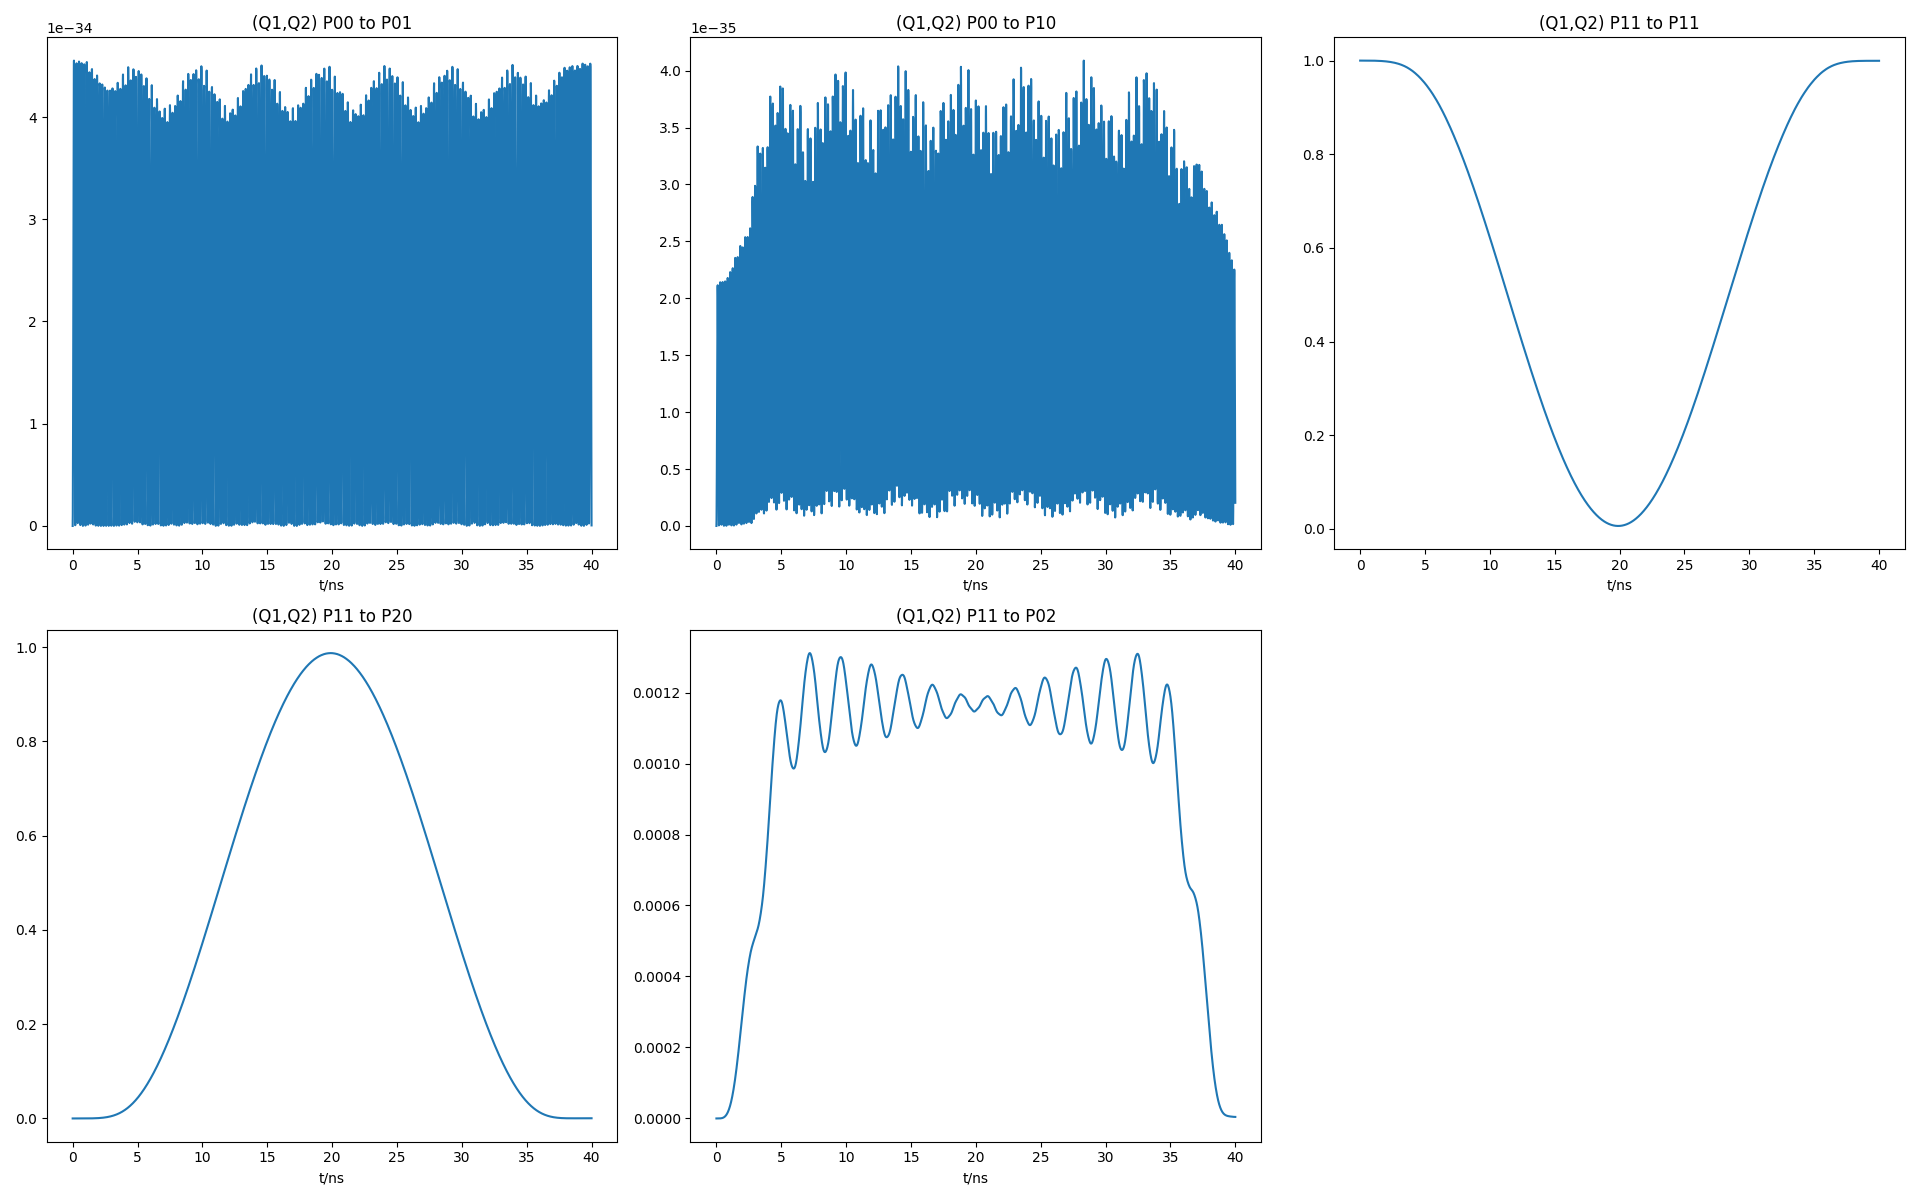
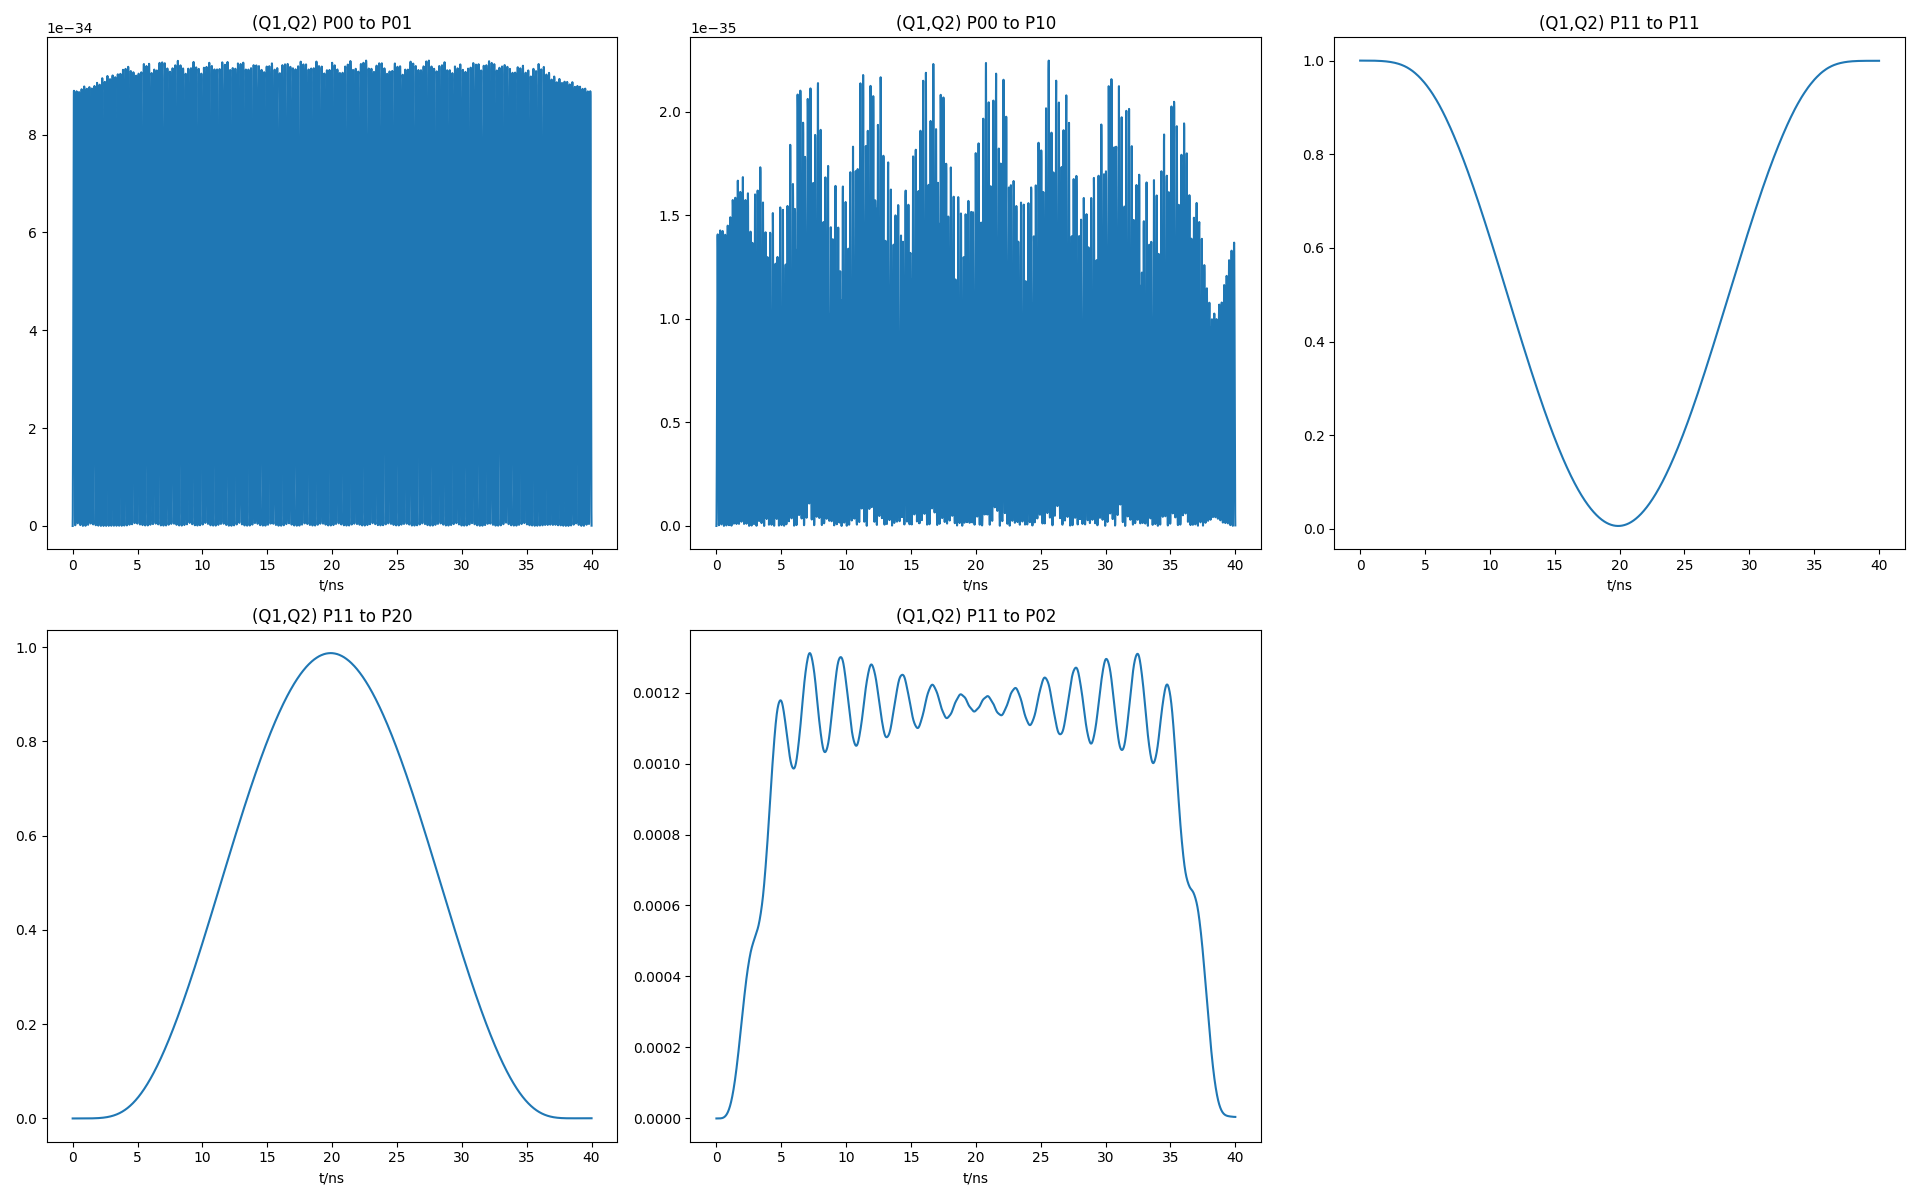
1.0

Changed region(s): [[0.375, 0.0617, 0.6562, 0.2775], [0.0312, 0.0308, 0.3125, 0.0925], [0.375, 0.4008, 0.625, 0.4625]]

diff --git a/example/X2PQ1_X2PQ2/X2PQ1_X2PQ2.py b/example/X2PQ1_X2PQ2/X2PQ1_X2PQ2.py
@@ -1,5 +1,6 @@
 import numpy as np
 import QubitSim.model
+from matplotlib import pyplot as plt
 
 # 0.Build a quantum circuit.
 circuit = QubitSim.model.Circuit()
@@ -84,8 +85,73 @@ Amplitude1 = 0.00365
 Amplitude2 = 0.00380
 f01_Q1 = 4.7035E9
 f01_Q2 = 4.5299E9
+phi_Q1 = np.pi-0.3356
+phi_Q2 = np.pi-0.3356
 Envolope = 1-np.cos(2*np.pi*circuit.t_list/(circuit.t_end-circuit.t_start))
-circuit.signal_1 = Amplitude1*Envolope*np.cos(2*np.pi*f01_Q1*circuit.t_list)
-circuit.signal_2 = Amplitude2*Envolope*np.cos(2*np.pi*f01_Q2*circuit.t_list)
+circuit.signal_1 = Amplitude1*Envolope*np.cos(2*np.pi*f01_Q1*circuit.t_list+phi_Q1)
+circuit.signal_2 = Amplitude2*Envolope*np.cos(2*np.pi*f01_Q2*circuit.t_list+phi_Q2)
+plt.figure()
+ax = plt.subplot(1, 2, 1)
+ax.plot(circuit.t_list*1E9, circuit.signal_1)
+ax.set_title("signal_1")
+ax.set_xlabel("t/ns")
+ax = plt.subplot(1, 2, 2)
+ax.plot(circuit.t_list*1E9, circuit.signal_2)
+ax.set_title("signal_2")
+ax.set_xlabel("t/ns")
+plt.tight_layout()
+plt.savefig(fname="X2PQ1_X2PQ2_signal.png")
 # 3.Run.
 circuit.run()
+# 4.Matrix display
+X2PQ1_X2PQ2_matrix = np.load(circuit.npy_filename)
+print("X2PQ1_X2PQ2_matrix:")
+for i in range(4):
+    for j in range(4):
+        print("%.4f" % np.abs(X2PQ1_X2PQ2_matrix[i][j]), end='_')
+        print("%.4f" % np.angle(X2PQ1_X2PQ2_matrix[i][j]), end=',')
+    print()
+
+X2PQ1_matrix = np.zeros([2, 2], dtype=complex)
+X2PQ1_matrix[0][0] = X2PQ1_X2PQ2_matrix[0][0]/np.sqrt(0.5)
+X2PQ1_matrix[0][1] = X2PQ1_X2PQ2_matrix[0][2]/np.sqrt(0.5)
+X2PQ1_matrix[1][0] = X2PQ1_X2PQ2_matrix[2][0]/np.sqrt(0.5)
+X2PQ1_matrix[1][1] = X2PQ1_X2PQ2_matrix[2][2]/np.sqrt(0.5)
+print("\nX2PQ1_matrix:")
+print(X2PQ1_matrix)
+
+theta_g_Q1 = (np.angle(X2PQ1_matrix[0][0])+np.angle(X2PQ1_matrix[1][1]))/2.0
+phi_Q1 = 2*np.arccos(np.real(X2PQ1_matrix[0][0]/np.exp(complex(0, 1)*theta_g_Q1)))
+nx_Q1 = np.imag(X2PQ1_matrix[0][1] /
+             np.exp(complex(0, 1)*theta_g_Q1))/(-1)/np.sin(phi_Q1/2)
+ny_Q1 = np.real(X2PQ1_matrix[0][1] /
+             np.exp(complex(0, 1)*theta_g_Q1))/(-1)/np.sin(phi_Q1/2)
+nz_Q1 = np.imag(X2PQ1_matrix[0][0] /
+             np.exp(complex(0, 1)*theta_g_Q1))/(-1)/np.sin(phi_Q1/2)
+print("theta_g_Q1=%.4f" % theta_g_Q1)
+print("phi_Q1=%.4f" % phi_Q1)
+print("nx_Q1=%.4f" % nx_Q1)
+print("ny_Q1=%.4f" % ny_Q1)
+print("nz_Q1=%.4f" % nz_Q1)
+
+X2PQ2_matrix = np.zeros([2, 2], dtype=complex)
+X2PQ2_matrix[0][0] = X2PQ1_X2PQ2_matrix[0][0]/np.sqrt(0.5)
+X2PQ2_matrix[0][1] = X2PQ1_X2PQ2_matrix[0][1]/np.sqrt(0.5)
+X2PQ2_matrix[1][0] = X2PQ1_X2PQ2_matrix[1][0]/np.sqrt(0.5)
+X2PQ2_matrix[1][1] = X2PQ1_X2PQ2_matrix[1][1]/np.sqrt(0.5)
+print("\nX2PQ2_matrix:")
+print(X2PQ2_matrix)
+
+theta_g_Q2 = (np.angle(X2PQ2_matrix[0][0])+np.angle(X2PQ2_matrix[1][1]))/2.0
+phi_Q2 = 2*np.arccos(np.real(X2PQ2_matrix[0][0]/np.exp(complex(0, 1)*theta_g_Q2)))
+nx_Q2 = np.imag(X2PQ2_matrix[0][1] /
+             np.exp(complex(0, 1)*theta_g_Q2))/(-1)/np.sin(phi_Q2/2)
+ny_Q2 = np.real(X2PQ2_matrix[0][1] /
+             np.exp(complex(0, 1)*theta_g_Q2))/(-1)/np.sin(phi_Q2/2)
+nz_Q2 = np.imag(X2PQ2_matrix[0][0] /
+             np.exp(complex(0, 1)*theta_g_Q2))/(-1)/np.sin(phi_Q2/2)
+print("theta_g_Q2=%.4f" % theta_g_Q2)
+print("phi_Q2=%.4f" % phi_Q2)
+print("nx_Q2=%.4f" % nx_Q2)
+print("ny_Q2=%.4f" % ny_Q2)
+print("nz_Q2=%.4f" % nz_Q2)

diff --git a/example/DCCZ/DCCZ.py b/example/DCCZ/DCCZ.py
@@ -104,19 +104,39 @@ circuit.signal_1z = flat_top(circuit.t_list*1E9, amplitude_Q1, 1, 2)
 circuit.signal_2z = flat_top(circuit.t_list*1E9, amplitude_Q2, 1, 2)
 circuit.signal_3z = flat_top(circuit.t_list*1E9, amplitude_C, 1, 2)
 plt.figure()
-plt.subplot(2, 2, 1)
-plt.plot(circuit.t_list*1E9, circuit.signal_1z)
-plt.subplot(2, 2, 2)
-plt.plot(circuit.t_list*1E9, circuit.signal_2z)
-plt.subplot(2, 2, 3)
-plt.plot(circuit.t_list*1E9, circuit.signal_3z)
-plt.show()
+ax = plt.subplot(2, 2, 1)
+ax.plot(circuit.t_list*1E9, circuit.signal_1z)
+ax.set_title("signal_1z")
+ax.set_xlabel("t/ns")
+ax = plt.subplot(2, 2, 2)
+ax.plot(circuit.t_list*1E9, circuit.signal_2z)
+ax.set_title("signal_2z")
+ax.set_xlabel("t/ns")
+ax = plt.subplot(2, 2, 3)
+ax.plot(circuit.t_list*1E9, circuit.signal_3z)
+ax.set_title("signal_3z")
+ax.set_xlabel("t/ns")
+plt.tight_layout()
+plt.savefig(fname="DCCZ_signal.png")
 # 3.Run.
 circuit.run()
 # 4.data process
-phase_globle = np.angle(circuit.time_evolution_operator_dressed_sub[0][0])
-phase1 = np.angle(circuit.time_evolution_operator_dressed_sub[1][1])
-phase2 = np.angle(circuit.time_evolution_operator_dressed_sub[2][2])
+DCCZ_matrix = np.load(circuit.npy_filename)
+print("DCCZ_matrix:")
+for i in range(4):
+    for j in range(4):
+        print("%.4f" % np.abs(DCCZ_matrix[i][j]), end='_')
+        print("%.4f" % np.angle(DCCZ_matrix[i][j]), end=',')
+    print()
+phase_globle = np.angle(DCCZ_matrix[0][0])
+phase1 = np.angle(DCCZ_matrix[1][1])
+phase2 = np.angle(DCCZ_matrix[2][2])
 phase_U = np.diag([np.exp(-complex(0, 1)*phase_globle), np.exp(-complex(0, 1)*phase1),
                   np.exp(-complex(0, 1)*phase2), np.exp(-complex(0, 1)*(phase1+phase2-phase_globle))])
-print(np.matmul(phase_U,circuit.time_evolution_operator_dressed_sub))
+DCCZ_matrix_free_phase=np.matmul(phase_U,DCCZ_matrix)
+print("\nDCCZ_matrix(phase free):")
+for i in range(4):
+    for j in range(4):
+        print("%.4f" % np.abs(DCCZ_matrix_free_phase[i][j]), end='_')
+        print("%.4f" % np.angle(DCCZ_matrix_free_phase[i][j]), end=',')
+    print()

diff --git a/example/ACCZ/ACCZ.py b/example/ACCZ/ACCZ.py
@@ -115,14 +115,30 @@ envolope = envolope/amp_norm
 waveform_ts = waveform_ts/amp_norm
 circuit.signal_3z = waveform_ts
 plt.figure()
-plt.plot(circuit.signal_3z)
-plt.show()
+plt.plot(circuit.t_list*1E9, circuit.signal_3)
+plt.title("signal_3")
+plt.xlabel("t/ns")
+plt.tight_layout()
+plt.savefig(fname="ACCZ_signal.png")
 # 3.Run.
 circuit.run()
 # 4.data process
-phase_globle = np.angle(circuit.time_evolution_operator_dressed_sub[0][0])
-phase1 = np.angle(circuit.time_evolution_operator_dressed_sub[1][1])
-phase2 = np.angle(circuit.time_evolution_operator_dressed_sub[2][2])
+ACCZ_matrix = np.load(circuit.npy_filename)
+print("ACCZ_matrix:")
+for i in range(4):
+    for j in range(4):
+        print("%.4f" % np.abs(ACCZ_matrix[i][j]), end='_')
+        print("%.4f" % np.angle(ACCZ_matrix[i][j]), end=',')
+    print()
+phase_globle = np.angle(ACCZ_matrix[0][0])
+phase1 = np.angle(ACCZ_matrix[1][1])
+phase2 = np.angle(ACCZ_matrix[2][2])
 phase_U = np.diag([np.exp(-complex(0, 1)*phase_globle), np.exp(-complex(0, 1)*phase1),
                   np.exp(-complex(0, 1)*phase2), np.exp(-complex(0, 1)*(phase1+phase2-phase_globle))])
-print(np.matmul(phase_U,circuit.time_evolution_operator_dressed_sub))
+ACCZ_matrix_free_phase=np.matmul(phase_U,ACCZ_matrix)
+print("\nACCZ_matrix(phase free):")
+for i in range(4):
+    for j in range(4):
+        print("%.4f" % np.abs(ACCZ_matrix_free_phase[i][j]), end='_')
+        print("%.4f" % np.angle(ACCZ_matrix_free_phase[i][j]), end=',')
+    print()

diff --git a/example/X2PQ1_idleQ2/X2PQ1_idleQ2.py b/example/X2PQ1_idleQ2/X2PQ1_idleQ2.py
@@ -104,7 +104,7 @@ plt.savefig(fname="X2PQ1_idleQ2_signal.png")
 circuit.run()
 # 4.Matrix display
 X2PQ1_idleQ2_matrix = np.load(circuit.npy_filename)
-print("\nX2PQ1_idleQ2_matrix:")
+print("X2PQ1_idleQ2_matrix:")
 for i in range(4):
     for j in range(4):
         print("%.4f" % np.abs(X2PQ1_idleQ2_matrix[i][j]), end='_')
@@ -127,7 +127,7 @@ ny = np.real(X2PQ1_matrix[0][1] /
              np.exp(complex(0, 1)*theta_g))/(-1)/np.sin(phi/2)
 nz = np.imag(X2PQ1_matrix[0][0] /
              np.exp(complex(0, 1)*theta_g))/(-1)/np.sin(phi/2)
-print("\ntheta_g=%.4f" % theta_g)
+print("theta_g=%.4f" % theta_g)
 print("phi=%.4f" % phi)
 print("nx=%.4f" % nx)
 print("ny=%.4f" % ny)

diff --git a/example/Y2PQ1_idleQ2/Y2PQ1_idleQ2.py b/example/Y2PQ1_idleQ2/Y2PQ1_idleQ2.py
@@ -104,7 +104,7 @@ plt.savefig(fname="Y2PQ1_idleQ2_signal.png")
 circuit.run()
 # 4.Matrix display
 Y2PQ1_idleQ2_matrix = np.load(circuit.npy_filename)
-print("\nY2PQ1_idleQ2_matrix:")
+print("Y2PQ1_idleQ2_matrix:")
 for i in range(4):
     for j in range(4):
         print("%.4f" % np.abs(Y2PQ1_idleQ2_matrix[i][j]), end='_')
@@ -127,7 +127,7 @@ ny = np.real(Y2PQ1_matrix[0][1] /
              np.exp(complex(0, 1)*theta_g))/(-1)/np.sin(phi/2)
 nz = np.imag(Y2PQ1_matrix[0][0] /
              np.exp(complex(0, 1)*theta_g))/(-1)/np.sin(phi/2)
-print("\ntheta_g=%.4f" % theta_g)
+print("theta_g=%.4f" % theta_g)
 print("phi=%.4f" % phi)
 print("nx=%.4f" % nx)
 print("ny=%.4f" % ny)

diff --git a/example/idleQ1_X2PQ2/idleQ1_X2PQ2.py b/example/idleQ1_X2PQ2/idleQ1_X2PQ2.py
@@ -104,7 +104,7 @@ plt.savefig(fname="idleQ1_X2PQ2_signal.png")
 circuit.run()
 # 4.Matrix display
 idleQ1_X2PQ2_matrix = np.load(circuit.npy_filename)
-print("\nidleQ1_X2PQ2_matrix:")
+print("idleQ1_X2PQ2_matrix:")
 for i in range(4):
     for j in range(4):
         print("%.4f" % np.abs(idleQ1_X2PQ2_matrix[i][j]), end='_')
@@ -127,7 +127,7 @@ ny = np.real(X2PQ2_matrix[0][1] /
              np.exp(complex(0, 1)*theta_g))/(-1)/np.sin(phi/2)
 nz = np.imag(X2PQ2_matrix[0][0] /
              np.exp(complex(0, 1)*theta_g))/(-1)/np.sin(phi/2)
-print("\ntheta_g=%.4f" % theta_g)
+print("theta_g=%.4f" % theta_g)
 print("phi=%.4f" % phi)
 print("nx=%.4f" % nx)
 print("ny=%.4f" % ny)

diff --git a/example/idleQ1_idleQ2/idleQ1_idleQ2.py b/example/idleQ1_idleQ2/idleQ1_idleQ2.py
@@ -84,7 +84,7 @@ circuit.initial()
 circuit.run()
 # 4.Matrix display
 idleQ1_idleQ2_matrix = np.load(circuit.npy_filename)
-print("\nidleQ1_idleQ2_matrix:")
+print("idleQ1_idleQ2_matrix:")
 for i in range(4):
     for j in range(4):
         print("%.4f" % np.abs(idleQ1_idleQ2_matrix[i][j]), end='_')
